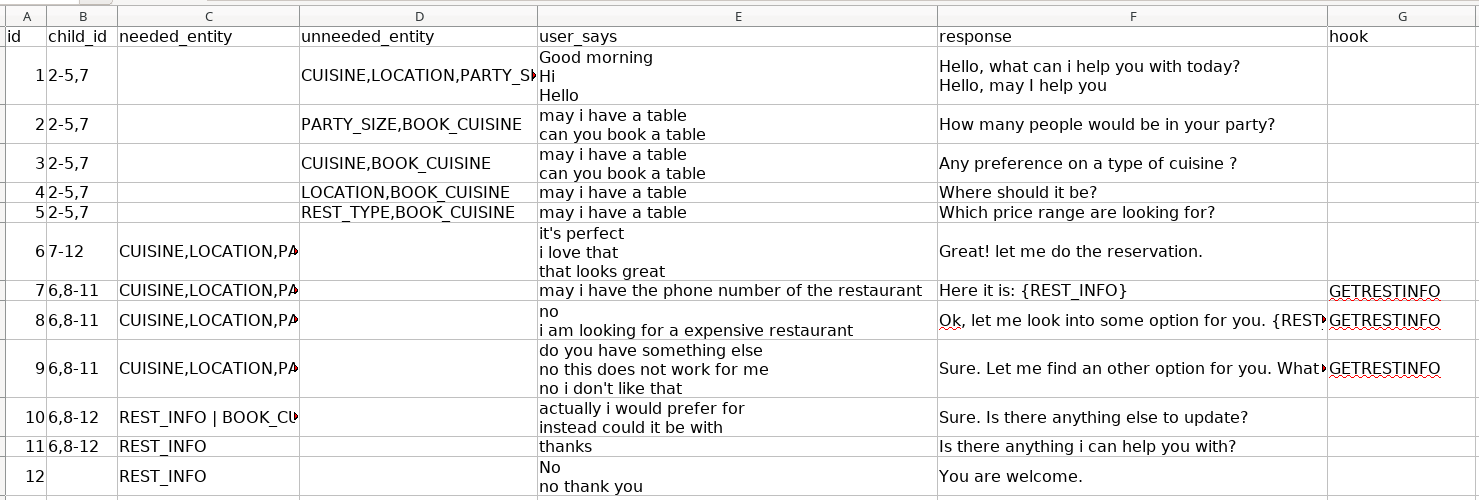
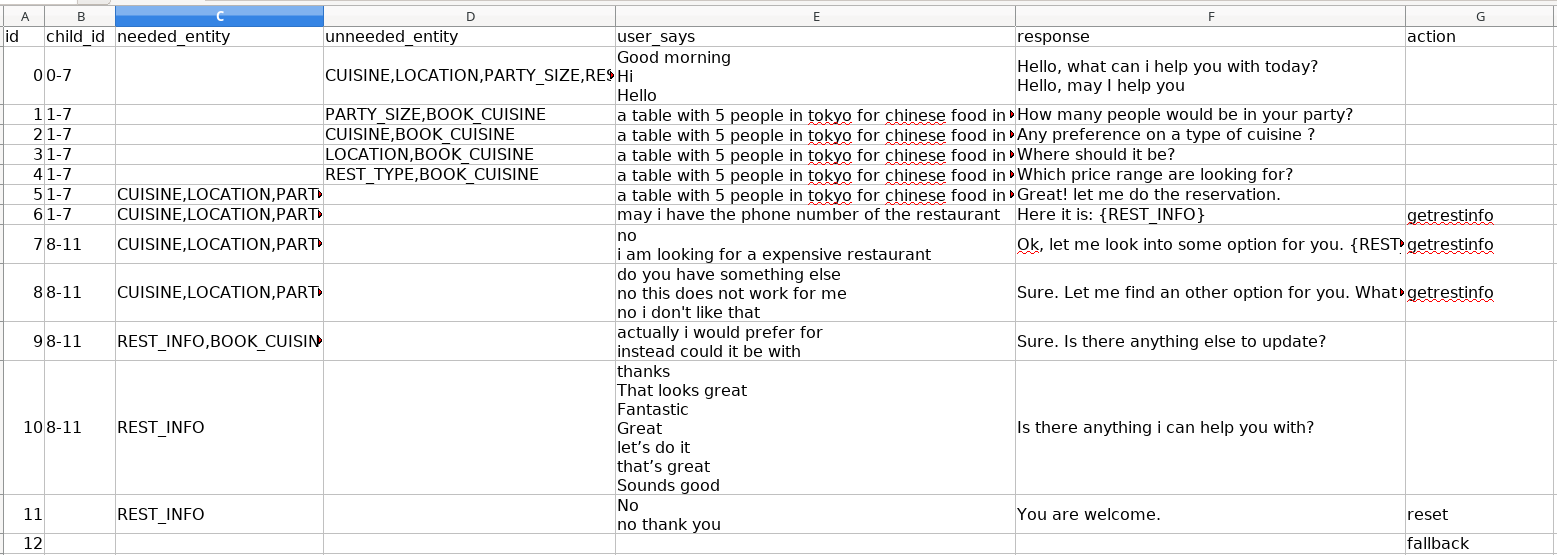
updated readme

Changed region(s): [[0.0, 0.0, 1.0, 1.0]]

diff --git a/docs/rule_introduction.md b/docs/rule_introduction.md
@@ -1,7 +1,7 @@
 # Get started to rule-based chatbot 
 ## About concept of rule-based chatbot
 By pre-defining a list of potential response, related user-says,  and limitation of search scope, the rule-based chatbot will try to search the most closed predefined user-says, extract the entities from query, and then call the function and return the correlated response. 
-For each session, a global dialog status is used to save some global variables, for example, the dialog history, the entities, etc. For rule-based chatbot, only the variable 'entities' is used. It is a python dictionary to save entities extracted from query in each loop and values extracted from action functions. This variable is used to fill the response template to get the final response.
+For each session, a global dialog status is used to save some global variables, for example, the dialog history, entities, sentiment, etc. For rule-based chatbot, only entities is used. It is a python dictionary to save entities extracted from query in each loop and values extracted from action functions. This variable is used to fill the response template to get the final response.
 ## About the rules
 The rules is editable in an excel file. It has three spreadsheets named:
 
@@ -16,13 +16,14 @@ Let's discuss about how to define a chatbot using these spreadsheets:
 #### dialogs
 An example dialog flow rule is like:
 ![rule_dialogs](img/rule_dialogs.png) 
+
 The first row is the column names
 The following rows are intents, each row is a predefined intent, which include:
 
- - **id**: Unique intent id, int
+ - **id**: Unique intent id, int. It is better to start from 0 in ascending order
  - **user_says**: The potential user says. The chatbot will calculate similarities between query and all user says in search range to search the intent. Please define all potential user says split by line break in one cell to improve the performance of search.  The empty user_says  will be used to generate fallback response, and will only be used in some special scenarios. 
  - **response**: Response template. If several responses defined with line break split, will randomly choose one. Note "{ENTITY_NAME}" in  response template will be replaced by correlated entity value for final response.
- - **action**: Action function names to call. The input is the entity dictionary, and the output is also a dictionary and will be merged to entity dictionary. The action function is defined in "actions" spreadsheet. If your returned dictionary contains "RESPONSE", the value of it will replace your predefined response and be used for final response. If your returned directiory contains "SESSION_RESET", the global session will be reset
+ - **action**: Action function names to call. The related functions are defined in "actions" spreadsheet. 
  
  The followings are used to limit the search scope of intent. Empty cell means no limitation.
  
@@ -33,6 +34,7 @@ The following rows are intents, each row is a predefined intent, which include:
 #### entities
 An example of predefined entities
 ![rule_entities](img/rule_entities.png) 
+
 This table defines the needed entities. From the second column, each column defines an entity, with correlated entity_name, alternative_name, entity_type, and potential values.
 The first row defines the entity name
 The second defines the alternative name which will be used to replace the origin entity name
@@ -45,7 +47,12 @@ The third row defines the method to get the entity. Currently it support three m
 Note the priority will be regex > keywords > ner
 
 #### actions
+An example of predefined actions:
+![rule_dialogs](img/rule_actions.png) 
+
 This spreadsheet has two columns: the first column is function name related to "action" column in "dialogs" spreadsheet, the second is python code. Each row is a complete function. The input of function is always "entities", which is a dictionary contains all entities extracted in the current dialog session. The output is also a python dictionary, which will merge into the global "entities" dictionary.
+If your returned dictionary contains "RESPONSE", the value of it will replace your predefined response and be used for final response. If your returned directiory contains "SESSION_RESET", the global session will be reset
+
 For example,  if you have "getrestinfo" in first column, "return {'BOOK_CUISINE': 'DONE!'}" in second column, the defined function is like:
 ```python
 def getrestinfo(entities):
